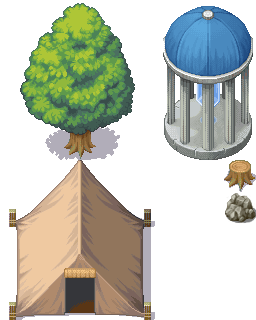
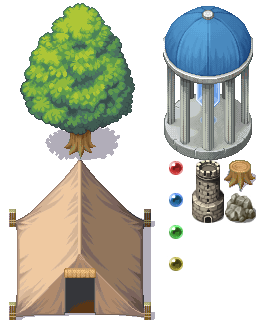
Commit #25

diff --git a/src/de/dakror/villagedefense/game/entity/struct/Tower.java b/src/de/dakror/villagedefense/game/entity/struct/Tower.java
@@ -1,0 +1,90 @@
+package de.dakror.villagedefense.game.entity.struct;
+
+import java.awt.Color;
+import java.awt.Graphics2D;
+import java.awt.geom.Rectangle2D;
+import java.util.ArrayList;
+import java.util.Collections;
+
+import de.dakror.villagedefense.game.Game;
+import de.dakror.villagedefense.game.entity.Creature;
+import de.dakror.villagedefense.game.entity.Entity;
+import de.dakror.villagedefense.game.entity.Struct;
+import de.dakror.villagedefense.game.tile.Tile;
+import de.dakror.villagedefense.settings.Attributes.Attribute;
+import de.dakror.villagedefense.util.Assistant;
+import de.dakror.villagedefense.util.TowerTargetComparator;
+import de.dakror.villagedefense.util.Vector;
+
+/**
+ * @author Dakror
+ */
+public abstract class Tower extends Struct
+{
+	int color;
+	
+	public Tower(int x, int y, int color)
+	{
+		super(x, y, 1, 2);
+		tx = 6;
+		ty = 5;
+		placeGround = false;
+		this.color = color;
+		setBump(new Rectangle2D.Float(0, 1.5f, 1, 0.5f));
+	}
+	
+	@Override
+	public void draw(Graphics2D g)
+	{
+		super.draw(g);
+		Assistant.drawImage(Game.getImage("structs.png"), (int) x, (int) y - Tile.SIZE / 4, Tile.SIZE, Tile.SIZE, 5 * Tile.SIZE, (5 + color) * Tile.SIZE, Tile.SIZE, Tile.SIZE, g);
+		
+		if (hovered || clicked)
+		{
+			Color oldColor = g.getColor();
+			g.setColor(Color.darkGray);
+			
+			int rad = (int) attributes.get(Attribute.ATTACK_RANGE);
+			Vector c = getCenter();
+			
+			g.drawArc((int) c.x - rad, (int) c.y - rad, rad * 2, rad * 2, 0, 360);
+			g.setColor(oldColor);
+		}
+	}
+	
+	@Override
+	protected void onMinedUp()
+	{}
+	
+	@Override
+	protected void tick(int tick)
+	{
+		if (tick % attributes.get(Attribute.ATTACK_SPEED) == 0)
+		{
+			ArrayList<Creature> t = getTargetableCreatures();
+			if (t.size() > 0) t.get(0).dealDamage((int) attributes.get(Attribute.DAMAGE_CREATURE));
+		}
+	}
+	
+	protected ArrayList<Creature> getTargetableCreatures()
+	{
+		ArrayList<Creature> targetable = new ArrayList<>();
+		for (Entity e : Game.world.entities)
+		{
+			if (!(e instanceof Creature)) continue;
+			
+			Creature c = (Creature) e;
+			if (!c.isHostile()) continue;
+			
+			if (e.getCenter().getDistance(getCenter()) < attributes.get(Attribute.ATTACK_RANGE)) targetable.add(c);
+		}
+		
+		Collections.sort(targetable, new TowerTargetComparator());
+		
+		return targetable;
+	}
+	
+	@Override
+	protected void onDeath()
+	{}
+}

diff --git a/src/de/dakror/villagedefense/game/world/World.java b/src/de/dakror/villagedefense/game/world/World.java
@@ -13,10 +13,12 @@ import de.dakror.villagedefense.game.entity.Creature;
 import de.dakror.villagedefense.game.entity.Entity;
 import de.dakror.villagedefense.game.entity.Struct;
 import de.dakror.villagedefense.game.entity.creature.Villager;
+import de.dakror.villagedefense.game.entity.creature.Zombie;
 import de.dakror.villagedefense.game.entity.struct.CoreHouse;
 import de.dakror.villagedefense.game.entity.struct.House;
 import de.dakror.villagedefense.game.entity.struct.Rock;
 import de.dakror.villagedefense.game.entity.struct.Tree;
+import de.dakror.villagedefense.game.entity.struct.tower.ArrowTower;
 import de.dakror.villagedefense.game.tile.Tile;
 import de.dakror.villagedefense.util.Drawable;
 import de.dakror.villagedefense.util.EventListener;
@@ -150,8 +152,10 @@ public class World extends EventListener implements Drawable
 		addEntity(new Rock(x + 7, y + 8));
 		addEntity(new House(x - 7, y - 8));
 		addEntity(new Tree(x + 7, y - 8));
+		addEntity(new ArrowTower(x - 7, y + 1));
 		
-		// addEntity(new Zombie(0, 500));
+		addEntity(new Zombie(0, 500));
+		addEntity(new Zombie(-40, 500));
 	}
 	
 	@Override
@@ -162,7 +166,11 @@ public class World extends EventListener implements Drawable
 			for (Entity entity : entities)
 			{
 				entity.update(tick);
-				if (entity.isDead()) entities.remove(entity);
+				if (entity.isDead())
+				{
+					if (entity.equals(selectedEntity)) selectedEntity = null;
+					entities.remove(entity);
+				}
 			}
 		}
 		catch (ConcurrentModificationException e)

diff --git a/src/de/dakror/villagedefense/game/entity/Creature.java b/src/de/dakror/villagedefense/game/entity/Creature.java
@@ -67,7 +67,7 @@ public abstract class Creature extends Entity
 			{
 				if (tick % attributes.get(Attribute.ATTACK_SPEED) == 0)
 				{
-					targetEntity.dealDamage((int) (targetEntity instanceof Struct ? attributes.get(Attribute.DAMAGE_STRUCT) : attributes.get(Attribute.DAMAGE_CREATURE)));
+					if (frame % 2 == 0) targetEntity.dealDamage((int) (targetEntity instanceof Struct ? attributes.get(Attribute.DAMAGE_STRUCT) : attributes.get(Attribute.DAMAGE_CREATURE)));
 					frame++;
 				}
 			}
@@ -75,7 +75,7 @@ public abstract class Creature extends Entity
 			{
 				if (tick % attributes.get(Attribute.MINE_SPEED) == 0)
 				{
-					((Struct) targetEntity).mineAllResources((int) attributes.get(Attribute.MINE_AMOUNT));
+					if (frame % 2 == 0) ((Struct) targetEntity).mineAllResources((int) attributes.get(Attribute.MINE_AMOUNT));
 					frame++;
 				}
 			}
@@ -168,6 +168,11 @@ public abstract class Creature extends Entity
 	public Vector getTarget()
 	{
 		return target;
+	}
+	
+	public Vector getTarget2()
+	{
+		return target == null ? getPos() : target;
 	}
 	
 	public void setFrozen(boolean frozen)

diff --git a/src/de/dakror/villagedefense/game/entity/Struct.java b/src/de/dakror/villagedefense/game/entity/Struct.java
@@ -9,6 +9,7 @@ import de.dakror.villagedefense.game.Game;
 import de.dakror.villagedefense.game.tile.Tile;
 import de.dakror.villagedefense.settings.Resources.Resource;
 import de.dakror.villagedefense.settings.StructPoints;
+import de.dakror.villagedefense.util.Assistant;
 import de.dakror.villagedefense.util.Vector;
 
 /**
@@ -32,7 +33,7 @@ public abstract class Struct extends Entity
 	{
 		drawBump(g, false);
 		
-		g.drawImage(Game.getImage("structs.png"), (int) x, (int) y, (int) x + width, (int) y + height, tx * Tile.SIZE, ty * Tile.SIZE, tx * Tile.SIZE + width, ty * Tile.SIZE + height, Game.w);
+		Assistant.drawImage(Game.getImage("structs.png"), (int) x, (int) y, width, height, tx * Tile.SIZE, ty * Tile.SIZE, width, height, g);
 		
 		drawBump(g, true);
 		
@@ -99,6 +100,8 @@ public abstract class Struct extends Entity
 		ArrayList<Resource> filled = resources.getFilled();
 		for (Resource r : filled)
 		{
+			if (!r.isUsable()) continue;
+			
 			int get = resources.get(r);
 			int newVal = get - amount > -1 ? get - amount : 0;
 			Game.currentGame.resources.add(r, get - newVal);

diff --git a/src/de/dakror/villagedefense/game/entity/struct/tower/ArrowTower.java b/src/de/dakror/villagedefense/game/entity/struct/tower/ArrowTower.java
@@ -1,0 +1,22 @@
+package de.dakror.villagedefense.game.entity.struct.tower;
+
+import de.dakror.villagedefense.game.entity.struct.Tower;
+import de.dakror.villagedefense.game.tile.Tile;
+import de.dakror.villagedefense.settings.Attributes.Attribute;
+
+/**
+ * @author Dakror
+ */
+public class ArrowTower extends Tower
+{
+	public ArrowTower(int x, int y)
+	{
+		super(x, y, 0);
+		name = "Pfeil-Turm";
+		attributes.set(Attribute.ATTACK_RANGE, Tile.SIZE * 5);
+		attributes.set(Attribute.HEALTH, 50);
+		attributes.set(Attribute.HEALTH_MAX, 50);
+		attributes.set(Attribute.ATTACK_SPEED, 25);
+		attributes.set(Attribute.DAMAGE_CREATURE, 3);
+	}
+}

diff --git a/src/de/dakror/villagedefense/util/TowerTargetComparator.java b/src/de/dakror/villagedefense/util/TowerTargetComparator.java
@@ -1,0 +1,23 @@
+package de.dakror.villagedefense.util;
+
+import java.util.Comparator;
+
+import de.dakror.villagedefense.game.entity.Creature;
+
+/**
+ * @author Dakror
+ */
+public class TowerTargetComparator implements Comparator<Creature>
+{
+	@Override
+	public int compare(Creature o1, Creature o2)
+	{
+		float distance1 = o1.getTarget2().getDistance(o1.getPos());
+		float distance2 = o2.getTarget2().getDistance(o2.getPos());
+		
+		float dif = distance1 - distance2;
+		if (dif < 0) return -1;
+		else if (dif > 0) return 1;
+		return 0;
+	}
+}

diff --git a/src/de/dakror/villagedefense/settings/Attributes.java b/src/de/dakror/villagedefense/settings/Attributes.java
@@ -7,15 +7,20 @@ import java.util.HashMap;
  */
 public class Attributes
 {
-	public static enum Attribute
+	/**
+	 * Attributes about speed are expressed as ticks
+	 * 
+	 * @author Dakror
+	 */
+	public enum Attribute
 	{
 		ATTACK_RANGE(0),
-		ATTACK_SPEED(25), // in ticks
+		ATTACK_SPEED(25),
 		DAMAGE_CREATURE(0),
 		DAMAGE_STRUCT(0),
 		HEALTH(1),
 		HEALTH_MAX(1),
-		MINE_SPEED(5),
+		MINE_SPEED(25),
 		MINE_AMOUNT(1),
 		SPEED(1),
 		

diff --git a/src/de/dakror/villagedefense/game/entity/Entity.java b/src/de/dakror/villagedefense/game/entity/Entity.java
@@ -160,6 +160,13 @@ public abstract class Entity implements Drawable
 		return new Vector(x, y);
 	}
 	
+	public Vector getCenter()
+	{
+		Vector v = getPos();
+		v.add(new Vector((float) bump.getCenterX(), (float) bump.getCenterY()));
+		return v;
+	}
+	
 	public void setPos(Vector v)
 	{
 		x = v.x;
